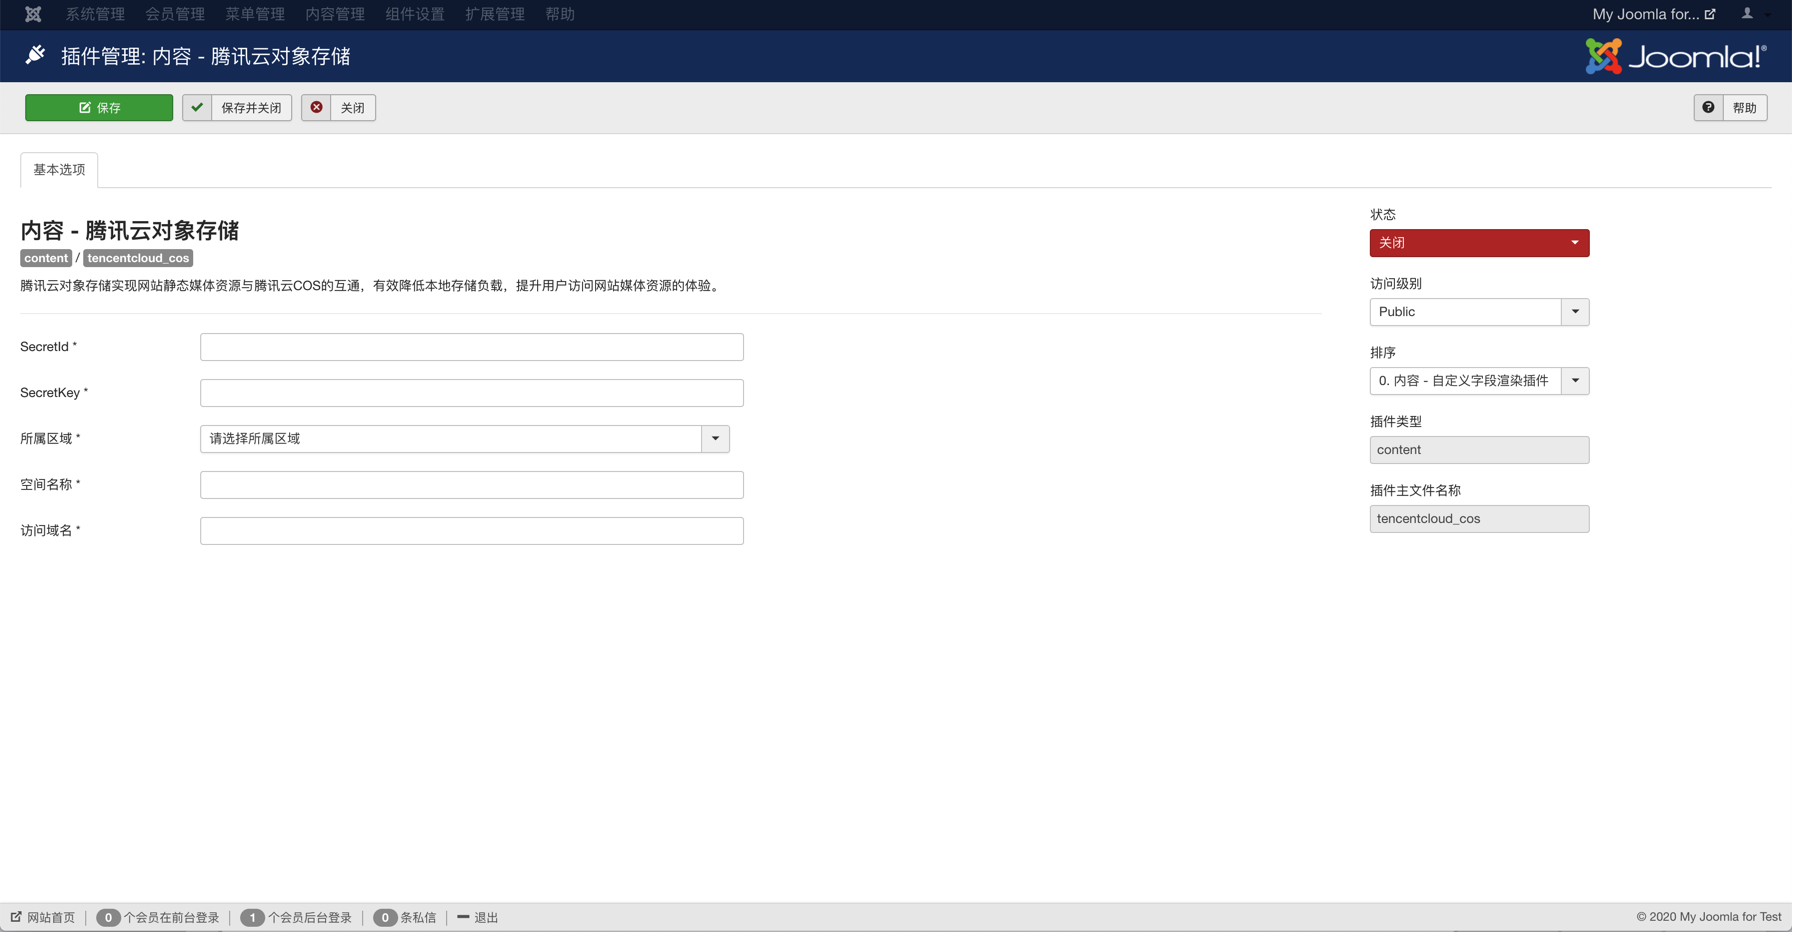
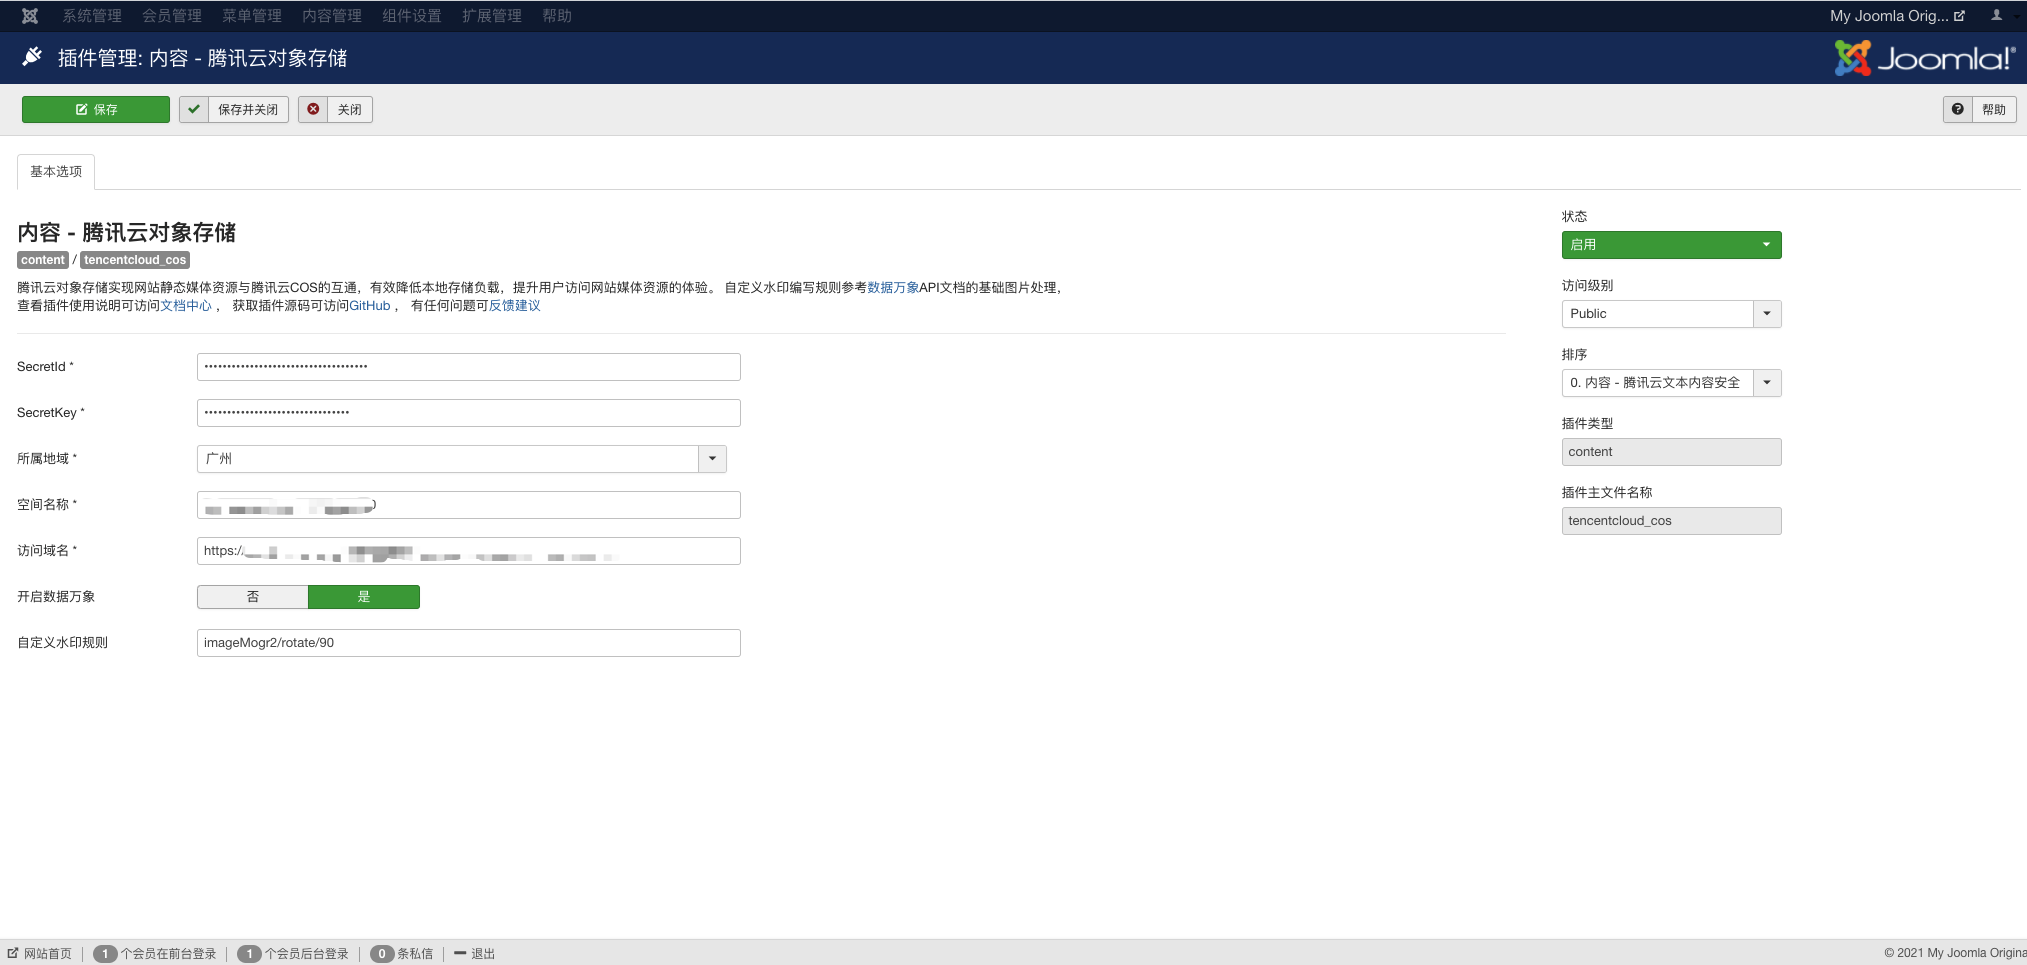
upgrade ci

diff --git a/tencentcloud_cos/TencentcloudCosAction.php b/tencentcloud_cos/TencentcloudCosAction.php
@@ -22,6 +22,8 @@ require_once 'vendor/autoload.php';
 
 class TencentcloudCosAction
 {
+    const DEFAULT_CI_RULE = 'watermark/2/text/6IW-6K6v5LqRwrfkuIfosaHkvJjlm74/fill/IzNEM0QzRA/fontsize/20/dissolve/50/gravity/northeast/dx/20/dy/20/batch/1/degree/45';
+
     /**
      * db
      * @var JDatabaseDriver|null
@@ -55,6 +57,7 @@ class TencentcloudCosAction
     private $secret_key;
     private $region;
     private $bucket;
+    private $ci_rule;
 
 
     /**
@@ -78,7 +81,22 @@ class TencentcloudCosAction
         $this->secret_key = isset($cos_options['secret_key']) ? $cos_options['secret_key'] : '';
         $this->region = isset($cos_options['region']) ? $cos_options['region'] : '';
         $this->bucket = isset($cos_options['bucket']) ? $cos_options['bucket'] : '';
+        if (isset($cos_options['cloud_infinite']) && $cos_options['cloud_infinite'] === 1) {
+            if (isset($cos_options['ci_rule']) && $cos_options['ci_rule'] !== '') {
+                $this->ci_rule = $cos_options['ci_rule'];
+            } else {
+                $this->ci_rule = self::DEFAULT_CI_RULE;
+            }
+        }
         return true;
+    }
+
+    /**
+     * 获取默认的数据万象规则
+     */
+    public function getCiRule()
+    {
+        return $this->ci_rule;
     }
 
     /**

diff --git a/tencentcloud_cos/tencentcloud_cos.php b/tencentcloud_cos/tencentcloud_cos.php
@@ -127,9 +127,18 @@ class PlgContentTencentcloud_cos extends JPlugin
         preg_match_all('/<a[^>]+href=([\'"])(?<href>.+?)\1[^>]*>/i', $text, $hrefResult);
         preg_match_all('/<img[^>]+src=([\'"])(?<src>.+?)\1[^>]*>/i', $text, $srcResult);
         $result = array_merge($hrefResult['href'], $srcResult['src']);
+        if (empty($result)) {
+            return $text;
+        }
 
+        $ciUrl = (new TencentcloudCosAction())->getCiRule();
         foreach ($result as $link) {
-            $text = str_replace($link, $cos_options['remote_url'] . "/" . ltrim($link, '/'), $text);
+            $replaceString = $cos_options['remote_url'] . "/" . ltrim($link, '/');
+            if (isset($cos_options['cloud_infinite']) && $cos_options['cloud_infinite'] === 1) {
+                $replaceString .= "?" . $ciUrl;
+            }
+
+            $text = str_replace($link, $replaceString, $text);
         }
         return $text;
     }

diff --git a/tencentcloud_cos/script.php b/tencentcloud_cos/script.php
@@ -60,7 +60,10 @@ class PlgContentTencentcloud_cosInstallerScript
             //获取配置
             $conf = $this->cos_object->getSiteInfo();
             //如果没有腾讯配置，则认为是第一次安装,写入初始化配置
-            if (!$conf) $this->cos_object->setSiteInfo();
+
+            if (!$conf) {
+                $this->cos_object->setSiteInfo();
+            }
             $this->cos_object->report('activate');
             return true;
         } catch (RuntimeException $e) {

diff --git a/README.md b/README.md
@@ -14,7 +14,7 @@
 | ---------- | ------------------------------------------------------------ |
 | 中文名称   | 腾讯云验证码（COS）插件                                  |
 | 英文名称   | tencentcloud-cos                                         |
-| 最新版本   | v1.0.0 (2020.10.29)                                          |
+| 最新版本   | v1.0.1 (2021.01.12)                                         |
 | 适用平台   | [Joomla](https://joomla.org/)                          |
 | 适用产品   | [腾讯云对象存储（COS）](https://cloud.tencent.com/product/cos) |
 | GitHub项目 | [tencentcloud-joomla-plugin-cos](https://github.com/Tencent-Cloud-Plugins/tencentcloud-joomla-plugin-cos) |
@@ -27,7 +27,7 @@
 - 开启插件后在后台的“内容管理“->“后台多媒体文件” 中上传的文件进行远程存储
 - 开启插件后在后台的“内容管理“->“后台多媒体文件” 中删除文件同时会删除远程文件
 - 创建博客并在博客中插入图片，图片会上传到远程存储中，在浏览博客的时候博客中的图片是从远程存储中加载的
-
+- 数据万象功能，给网站中的图片添加水印
 ## 3.安装指引
 
 ### 3.1.部署方式一：通过GitHub部署安装
@@ -54,6 +54,7 @@
 <br><br>
 ![](images/cos3.png)
 > 在【扩展管理】->【插件管理】中，选择腾讯云对象存储插件，配置插件需要的相关信息。 
+>自定义水印编写规则参考 [数据万象官网](https://cloud.tencent.com/document/product/460) 的API文档。
 
 <br><br>
 ![](images/cos4.png)
@@ -66,6 +67,7 @@
 - **所属地域**：在腾讯云服务器所在地域。详情参考[腾讯云文档](https://cloud.tencent.com/document/product/457/44232)
 - **空间名称**：COS服务中存储桶的名称。详情参考[腾讯云文档](https://cloud.tencent.com/document/product/436/41153)
 - **访问域名**：存储桶的访问域名。详情参考[腾讯云文档](https://cloud.tencent.com/document/product/436/6224)
+- **数据万象**：开启数据万象对图片进行编辑，压缩、转换格式、水印添加等操作。详情参考[腾讯云文档](https://cloud.tencent.com/document/product/460/36540)
 
 ## 5.FAQ
 - **问题1**：开启腾讯云对象存储后，之前图片无法正常显示？
@@ -83,12 +85,14 @@
 
 ## 6.GitHub版本迭代记录
 
-### 6.1 tencentcloud-joomla-plugin-cos v1.0.0
+### 2021-01-12 tencentcloud-joomla-plugin-cos v1.0.1
+- 数据万象功能，给网站中的图片添加水印
+
+### 2020-10-29 tencentcloud-joomla-plugin-cos v1.0.0
 
 - 开启插件后在后台的“内容管理“->“后台多媒体文件” 中上传的文件进行远程存储
 - 开启插件后在后台的“内容管理“->“后台多媒体文件” 中删除文件同时会删除远程文件
 - 创建博客并在博客中插入图片，图片会上传到远程存储中，在浏览博客的时候博客中的图片是从远程存储中加载的
-
 ---
 
 本项目由腾讯云中小企业产品中心建设和维护，了解与该插件使用相关的更多信息，请访问[春雨文档中心](https://openapp.qq.com/docs/Joomla/cos.html) 
